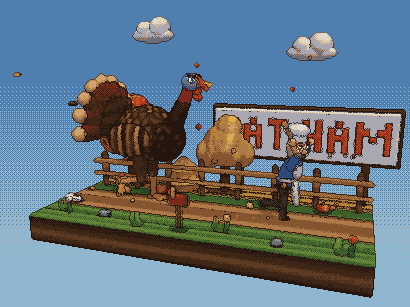
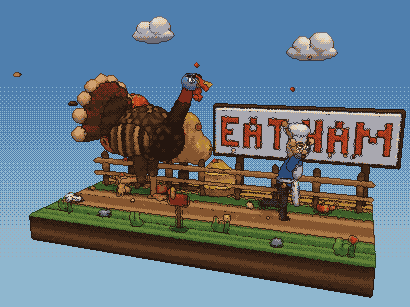
Turkey Run: the yellow tree and the haystack change places (#323)
* Turkey Run: the yellow tree and the haystack change places, so the tree no longer hides the billboard's E

Claude-Session: https://claude.ai/code/session_018HstUnUE4jaok63rUmi9ij

* Turkey Run: its loop recorded again with the tree and haystack swapped

Claude-Session: https://claude.ai/code/session_018HstUnUE4jaok63rUmi9ij

---------

Changed region(s): [[0.3805, 0.3518, 0.6439, 0.645]]

diff --git a/src/blobscape/diorama/scenes/turkey.ts b/src/blobscape/diorama/scenes/turkey.ts
@@ -31,8 +31,8 @@ export const TURKEY: SceneDoc = {
     { name: 'by6', at: [1.25, 0, -0.575] },
     { name: 'by7', at: [1.75, 0, -0.575] },
     { name: 'by8', at: [-1.45, 0, -0.82] },
-    { name: 'by9', at: [0, 0, -0.8] },
-    { name: 'by10', at: [-0.62, 0, -0.8] },
+    { name: 'by9', at: [-0.62, 0, -0.8] },
+    { name: 'by10', at: [-0.1, 0, -0.8] },
     { name: 'by11', at: [1, 0, -0.86] },
     { name: 'by12', at: [-0.8, 0, -0.42] },
     { name: 'by13', at: [1.35, 0, -0.42] },
@@ -98,10 +98,10 @@ export const TURKEY: SceneDoc = {
     { shape: { kind: 'cylinder', at: [-1.45, 0, -0.82], height: 0.6325, r: 0.06, rTop: 0.04 }, paint: { kind: 'bands', axis: 'y', size: 0.08, colors: ['#5e3b22', '#3e2617'] }, bone: 'by8', noShadow: true },
     { shape: { kind: 'join', shapes: [{ kind: 'sphere', at: [-1.45, 0.828, -0.82], r: 0.345 }, { kind: 'sphere', at: [-1.68, 0.69, -0.78], r: 0.22999999999999998 }, { kind: 'sphere', at: [-1.208, 0.713, -0.84], r: 0.24149999999999996 }, { kind: 'sphere', at: [-1.4, 1.092, -0.82], r: 0.22999999999999998 }] }, paint: { kind: 'patches', size: 0.14, colors: ['#e0662a', '#b8401f', '#f39a3c', '#7a2a1a'] }, bone: 'by8', noShadow: true },
     { shape: { kind: 'ball', at: [-1.45, 0.012, -0.82], r: [0.345, 0.008, 0.12] }, paint: '#5e3b22', bone: 'by8', noShadow: true, bare: true },
-    { shape: { kind: 'cylinder', at: [0, 0, -0.8], height: 0.5225, r: 0.06, rTop: 0.04 }, paint: { kind: 'bands', axis: 'y', size: 0.08, colors: ['#5e3b22', '#3e2617'] }, bone: 'by9', noShadow: true },
-    { shape: { kind: 'join', shapes: [{ kind: 'sphere', at: [0, 0.684, -0.8], r: 0.285 }, { kind: 'sphere', at: [-0.19, 0.57, -0.76], r: 0.19 }, { kind: 'sphere', at: [0.199, 0.589, -0.82], r: 0.19949999999999998 }, { kind: 'sphere', at: [0.05, 0.903, -0.8], r: 0.19 }] }, paint: { kind: 'patches', size: 0.14, colors: ['#dcae4a', '#b8892e', '#f39a3c', '#f1d57a'] }, bone: 'by9', noShadow: true },
-    { shape: { kind: 'ball', at: [0, 0.012, -0.8], r: [0.285, 0.008, 0.12] }, paint: '#5e3b22', bone: 'by9', noShadow: true, bare: true },
-    { shape: { kind: 'lathe', at: [-0.62, 0, -0.8], profile: [[0.24, 0], [0.26, 0.12], [0.2, 0.3], [0.08, 0.42], [0.01, 0.46]] }, paint: { kind: 'bands', axis: 'y', size: 0.06, colors: ['#dcae4a', '#b8892e', '#f1d57a'] }, bone: 'by10', noShadow: true, ink: { kind: 'hatch', amount: 0.4, color: '#85552f' } },
+    { shape: { kind: 'cylinder', at: [-0.62, 0, -0.8], height: 0.5225, r: 0.06, rTop: 0.04 }, paint: { kind: 'bands', axis: 'y', size: 0.08, colors: ['#5e3b22', '#3e2617'] }, bone: 'by9', noShadow: true },
+    { shape: { kind: 'join', shapes: [{ kind: 'sphere', at: [-0.62, 0.684, -0.8], r: 0.285 }, { kind: 'sphere', at: [-0.81, 0.57, -0.76], r: 0.19 }, { kind: 'sphere', at: [-0.42, 0.589, -0.82], r: 0.19949999999999998 }, { kind: 'sphere', at: [-0.57, 0.903, -0.8], r: 0.19 }] }, paint: { kind: 'patches', size: 0.14, colors: ['#dcae4a', '#b8892e', '#f39a3c', '#f1d57a'] }, bone: 'by9', noShadow: true },
+    { shape: { kind: 'ball', at: [-0.62, 0.012, -0.8], r: [0.285, 0.008, 0.12] }, paint: '#5e3b22', bone: 'by9', noShadow: true, bare: true },
+    { shape: { kind: 'lathe', at: [-0.1, 0, -0.8], profile: [[0.24, 0], [0.26, 0.12], [0.2, 0.3], [0.08, 0.42], [0.01, 0.46]] }, paint: { kind: 'bands', axis: 'y', size: 0.06, colors: ['#dcae4a', '#b8892e', '#f1d57a'] }, bone: 'by10', noShadow: true, ink: { kind: 'hatch', amount: 0.4, color: '#85552f' } },
     { shape: { kind: 'cylinder', at: [0.2, 0, -0.86], height: 0.6, r: 0.04 }, paint: '#5e3b22', bone: 'by11', noShadow: true },
     { shape: { kind: 'cylinder', at: [1.8, 0, -0.86], height: 0.6, r: 0.04 }, paint: '#5e3b22', bone: 'by11', noShadow: true },
     { shape: { kind: 'box', at: [1, 0.86, -0.86], half: [1.14, 0.31, 0.025] }, paint: '#fbf7ea', bone: 'by11', noShadow: true },
@@ -218,8 +218,8 @@ export const TURKEY: SceneDoc = {
     { kind: 'pass', bone: 'by6', by: [-4, 0, 0], times: 3, phase: 0.188 },
     { kind: 'pass', bone: 'by7', by: [-4, 0, 0], times: 3, phase: 0.063 },
     { kind: 'pass', bone: 'by8', by: [-4, 0, 0], times: 3, phase: 0.863 },
-    { kind: 'pass', bone: 'by9', by: [-4, 0, 0], times: 3, phase: 0.5 },
-    { kind: 'pass', bone: 'by10', by: [-4, 0, 0], times: 3, phase: 0.655 },
+    { kind: 'pass', bone: 'by9', by: [-4, 0, 0], times: 3, phase: 0.655 },
+    { kind: 'pass', bone: 'by10', by: [-4, 0, 0], times: 3, phase: 0.525 },
     { kind: 'pass', bone: 'by11', by: [-4, 0, 0], times: 3, phase: 0.25 },
     { kind: 'pass', bone: 'by12', by: [-4, 0, 0], times: 3, phase: 0.7 },
     { kind: 'pass', bone: 'by13', by: [-4, 0, 0], times: 3, phase: 0.162 },
